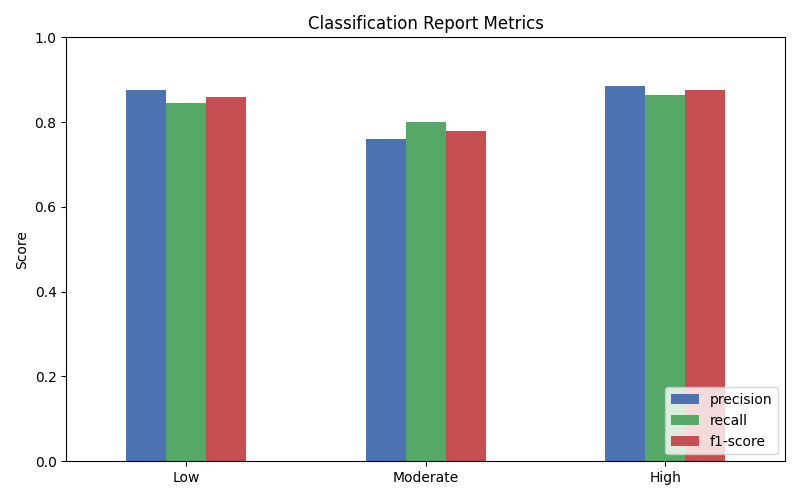
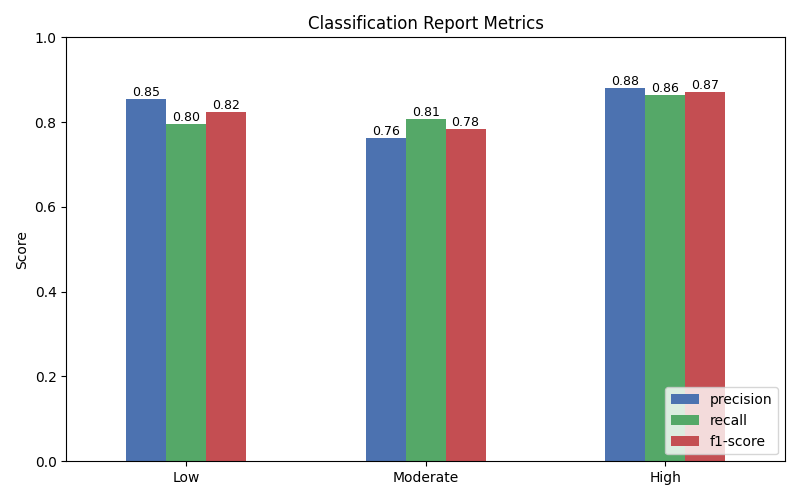
Implemented feature engineering

Changed region(s): [[0.1562, 0.18, 0.3125, 0.27], [0.75, 0.15, 0.9062, 0.21], [0.4688, 0.21, 0.5938, 0.27]]

diff --git a/main.py b/main.py
@@ -27,9 +27,9 @@ def main():
     # split into train and test data
     X_train, X_test, y_train, y_test = train_test_split(
         X, y, test_size=0.2, stratify=y, random_state=0
-    )   
+    )
     
-    # feature engineering
+    # pre training processing
     X_train_normalized, X_test_normalized = normalize_features(X_train, X_test)
     
     # training
@@ -40,9 +40,14 @@ def main():
 
     # evaluation
     le = get_label_encoder(df_clean)
-    draw_feature_importance(model, X)
+    # draw_feature_importance(model, X)
     draw_confusion_matrix(y_test, y_pred, le)
     draw_classification_report(y_test, y_pred, le)
+    evaluate_accuracy(y_test, y_pred)
+
+def evaluate_accuracy(y_test, y_pred):
+    acc = accuracy_score(y_test, y_pred)
+    print(f"Model Accuracy: {acc:.4f}")
 
 def get_label_encoder(df):
     le = LabelEncoder()
@@ -50,16 +55,35 @@ def get_label_encoder(df):
     return le
 
 def draw_classification_report(y_test, y_pred, le):
-    report = classification_report(y_test, y_pred, output_dict=True, target_names=le.classes_)
-    df_report = pd.DataFrame(report).transpose()
-
-    df_report.loc[le.classes_, ["precision", "recall", "f1-score"]].plot(
-        kind="bar", figsize=(8, 5), rot=0, color=["#4C72B0", "#55A868", "#C44E52"]
+    report = classification_report(
+        y_test, y_pred, output_dict=True, target_names=le.classes_
     )
+    df_report = pd.DataFrame(report).transpose()
+    
+    metrics_df = df_report.loc[le.classes_, ["precision", "recall", "f1-score"]]
+    
+    ax = metrics_df.plot(
+        kind="bar",
+        figsize=(8, 5),
+        rot=0,
+        color=["#4C72B0", "#55A868", "#C44E52"]
+    )
+    
     plt.title("Classification Report Metrics")
     plt.ylabel("Score")
     plt.ylim(0, 1)
     plt.legend(loc="lower right")
+    
+    for p in ax.patches:
+        height = p.get_height()
+        ax.annotate(
+            f"{height:.2f}",
+            (p.get_x() + p.get_width() / 2, height),
+            ha='center',
+            va='bottom',
+            fontsize=9
+        )
+    
     plt.tight_layout()
     plt.show()
     
@@ -151,7 +175,7 @@ def remove_outliers(df):
     
     numeric_cols = df_clean.select_dtypes(include=[np.number]).columns
     if len(numeric_cols) == 0:
-        print("No numeric columns detected.")
+        # print("No numeric columns detected.")
         return df_clean
     
     mask = np.ones(len(df_clean), dtype=bool)
@@ -169,7 +193,7 @@ def remove_outliers(df):
     
     df_clean = df_clean[mask]
     
-    print(f"Removed {len(df) - len(df_clean)} outliers across {len(numeric_cols)} numeric columns.")
+    # print(f"Removed {len(df) - len(df_clean)} outliers across {len(numeric_cols)} numeric columns.")
     
     return df_clean
 
@@ -211,6 +235,9 @@ def draw_plots(df):
 def preprocess_data(df):
     #removing uneeded feature
     df.drop("Student_ID", axis=1, inplace=True)
+    df.drop("GPA", axis=1, inplace=True)
+    df.drop("Extracurricular_Hours_Per_Day", axis=1, inplace=True)
+    df.drop("Social_Hours_Per_Day", axis=1, inplace=True)
     df_clean = clean_data(df)
     order_data_stress_level(df_clean)
     df_clean = remove_outliers(df_clean)

diff --git a/readme.md b/readme.md
@@ -29,7 +29,6 @@ The target variable is the **stress level**, indicated as *low*, *moderate* or *
 **Figures:**
 ![Feature Distributions Historgram](images/feature_distributions_histogram.png)
 ![Scatter Plot Matrix](images/scatter_plot_matrix.png)
-![Correlation Heatmap](images/correlation_heatmap.png)
 ![Study Boxplot](images/boxplots_study_hours_per_day.png)
 ![Sleep Boxplot](images/boxplots_sleep_hours_per_day.png)
 ![Sleep Boxplot](images/boxplots_extracurricular_hours_per_day.png)
@@ -46,3 +45,14 @@ No missing values or duplicate rows were found in the dataset. Outliers in numer
 ![Missing Values](images/missing_values.png)
 ![Duplicate Entries](images/duplicate_entries.png)
 ![Duplicate Entries](images/removed_outliers.png)
+
+---
+
+## Feature Engineering
+
+To improve model performance and reduce redundancy, I performed feature engineering before training:
+- **GPA** was removed because it was highly correlated with **study time**, reducing redundant information and potential multicollinearity.
+- Features such as **extracurricular activity time** and **social time** were removed due to low predictive importance, minimizing noise and helping the model focus on the most relevant factors.
+
+![Correlation Heatmap](images/correlation_heatmap.png)
+![Feature Importance](images/feature_importance.png)
